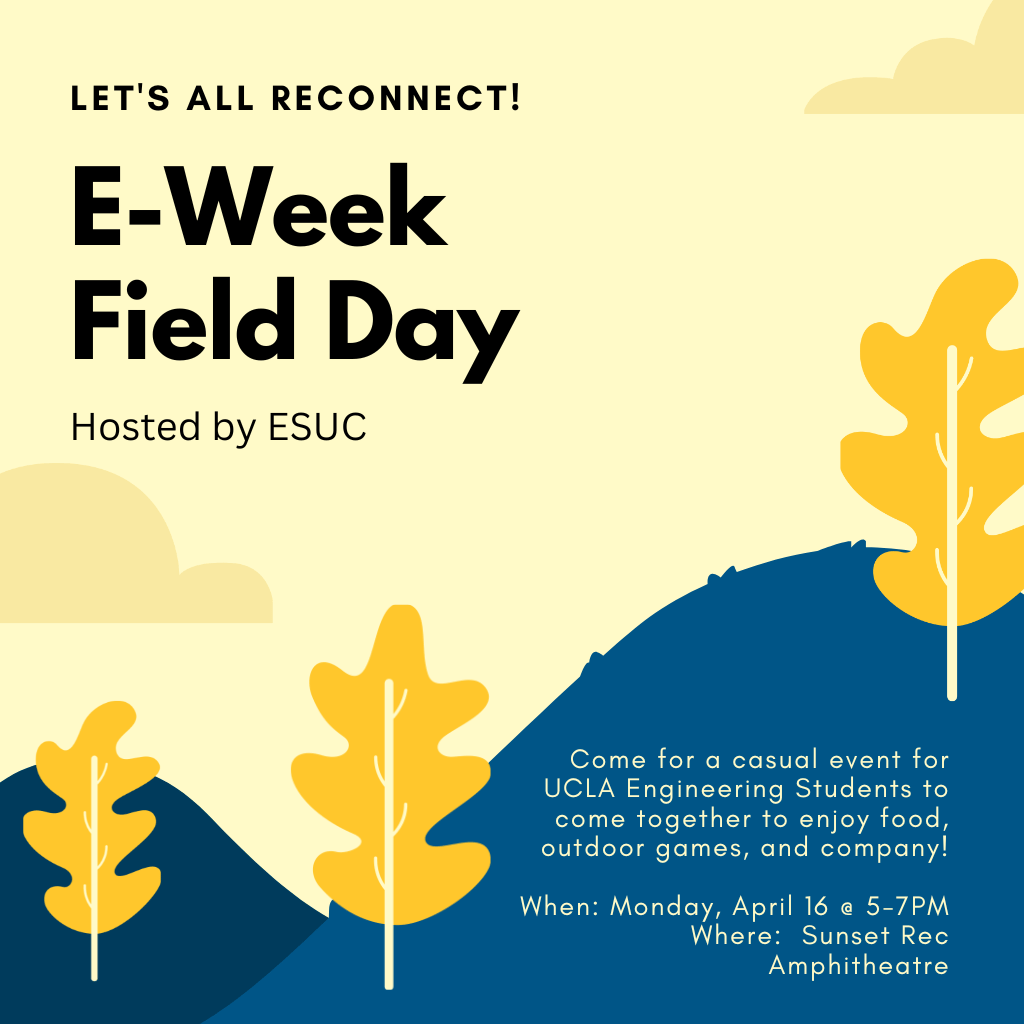
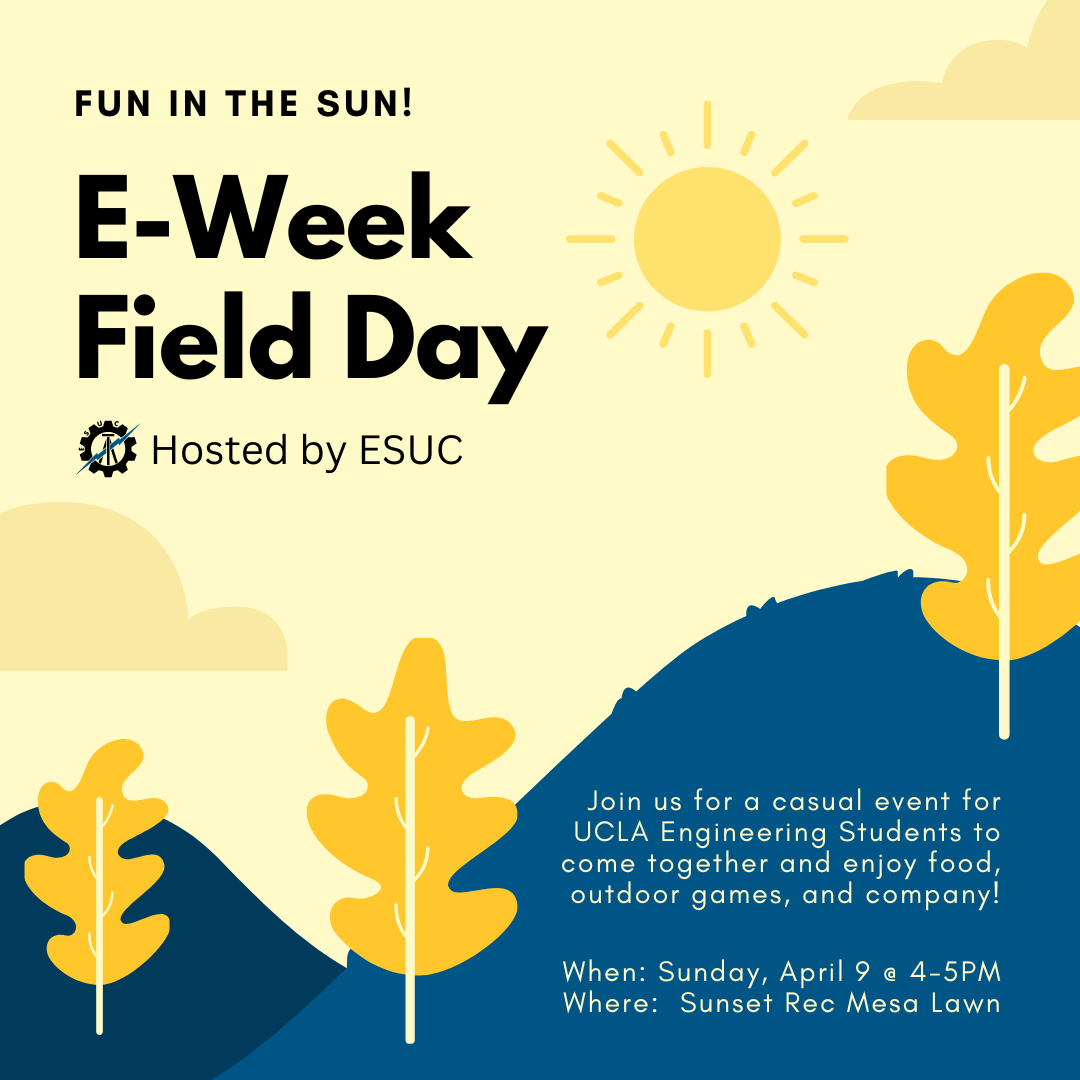
Update about pics, event info, rsvp link, and art exhibits

diff --git a/index.html b/index.html
@@ -79,7 +79,7 @@
               <li><a href="#">Drop Down 4</a></li>
             </ul>
           </li> -->
-          <li><a class="getstarted scrollto" href="https://tinyurl.com/e-week-2023">RSVP</a></li>
+          <li><a class="getstarted scrollto" href="https://tinyurl.com/e-week-2023" target="_blank" rel="noopener">RSVP</a></li>
         </ul>
         <i class="bi bi-list mobile-nav-toggle"></i>
       </nav><!-- .navbar -->
@@ -107,7 +107,7 @@
         <div class="row">
           <div class="col-lg-4 col-md-6 d-flex align-items-stretch" data-aos="fade-up" data-aos-delay="100">
             <div class="card">
-              <img src="assets/img/about-boxes-1.jpg" class="card-img-top" alt="...">
+              <img src="assets/img/about/about-1.jpg" class="card-img-top" alt="...">
               <div class="card-icon">
                 <i class="ri-book-open-line"></i>
               </div>
@@ -119,7 +119,7 @@
           </div>
           <div class="col-lg-4 col-md-6 d-flex align-items-stretch" data-aos="fade-up" data-aos-delay="200">
             <div class="card">
-              <img src="assets/img/about-boxes-2.jpg" class="card-img-top" alt="...">
+              <img src="assets/img/about/about-2.jpg" class="card-img-top" alt="...">
               <div class="card-icon">
                 <i class="ri-calendar-check-line"></i>
               </div>
@@ -131,7 +131,7 @@
           </div>
           <div class="col-lg-4 col-md-6 d-flex align-items-stretch" data-aos="fade-up" data-aos-delay="300">
             <div class="card">
-              <img src="assets/img/about-boxes-3.jpg" class="card-img-top" alt="...">
+              <img src="assets/img/about/about-3.jpg" class="card-img-top" alt="...">
               <div class="card-icon">
                 <i class="ri-focus-2-line"></i>
               </div>
@@ -200,32 +200,32 @@
         <ul class="nav nav-tabs row d-flex">
           <li class="nav-item col-2">
             <a class="nav-link active show" data-bs-toggle="tab" href="#tab-1">
+              <i class="ri-sun-line"></i>
+              <h4 class="d-none d-lg-block">Field Day</h4>
+            </a>
+          </li>
+          <li class="nav-item col-2">
+            <a class="nav-link" data-bs-toggle="tab" href="#tab-2">
               <i class="ri-group-2-line"></i>
               <h4 class="d-none d-lg-block">Kids Day</h4>
             </a>
           </li>
           <li class="nav-item col-2">
-            <a class="nav-link" data-bs-toggle="tab" href="#tab-2">
+            <a class="nav-link" data-bs-toggle="tab" href="#tab-3">
               <i class="ri-global-line"></i>
-              <h4 class="d-none d-lg-block">Networking Night</h4>
+              <h4 class="d-none d-lg-block">Industry Night</h4>
             </a>
           </li>
           <li class="nav-item col-2">
-            <a class="nav-link" data-bs-toggle="tab" href="#tab-3">
+            <a class="nav-link" data-bs-toggle="tab" href="#tab-4">
               <i class="ri-rocket-line"></i>
               <h4 class="d-none d-lg-block">Rocket Egg Drop</h4>
             </a>
           </li>
           <li class="nav-item col-2">
-            <a class="nav-link" data-bs-toggle="tab" href="#tab-4">
+            <a class="nav-link" data-bs-toggle="tab" href="#tab-5">
               <i class="ri-settings-5-line"></i>
               <h4 class="d-none d-lg-block">Engineers Ball</h4>
-            </a>
-          </li>
-          <li class="nav-item col-2">
-            <a class="nav-link" data-bs-toggle="tab" href="#tab-5">
-              <i class="ri-sun-line"></i>
-              <h4 class="d-none d-lg-block">Field Day</h4>
             </a>
           </li>
           <li class="nav-item col-2">
@@ -240,15 +240,38 @@
           <div class="tab-pane active show" id="tab-1">
             <div class="row">
               <div class="col-lg-6 order-2 order-lg-1 mt-3 mt-lg-0">
-                <h3>Kids Day</h3>
+                <h3>Field Day</h3>
                 <p class="fst-italic">
-                  Kids Day is an event for the UCLA Engineering Students to give back to the community. 
-                  During Kids Day, hundreds of elementary school students are invited to UCLA for a day of hands-on learning outside of a classroom setting. 
+                  Come for a casual event with UCLA Engineering Students to come together to enjoy food, outdoor games, and company!
                 </p>
                 <ul>
-                  <li><i class="ri-check-double-line"></i> Date: April 11, 2023</li>
-                  <li><i class="ri-check-double-line"></i> Time: 8 AM to 1 PM</li>
-                  <li><i class="ri-check-double-line"></i> Location: Ackerman Grand Ballroom</li>
+                  <li><i class="ri-check-double-line"></i> Date: Sunday, April 9, 2023</li>
+                  <li><i class="ri-check-double-line"></i> Time: 4 PM to 5 PM</li>
+                  <li><i class="ri-check-double-line"></i> Location: Sunset Recreation Mesa Lawn</li>
+                </ul>
+                <p>
+                  The goal is for students to be able to take a break from studying, reconnect with nature, and become familiarized with their community of engineers. 
+                  The community outcome will be better relationships within the engineering community that can help in improving student experiences in the classroom, in clubs, and in exploring engineering endeavors.
+                </p>
+              </div>
+              <div class="col-lg-6 order-1 order-lg-2 text-center">
+                <img src="assets/img/events/fieldday.png" alt="Field Day" class="img-fluid">
+              </div>
+            </div>
+          </div>
+          <div class="tab-pane" id="tab-2">
+            <div class="row">
+              <div class="col-lg-6 order-2 order-lg-1 mt-3 mt-lg-0">
+                <h3>Kids Day</h3>
+                <p class="fst-italic">
+                  Are you interested in helping young kids develop an interest in engineering? 
+                  Volunteer at our outreach event where elementary school students in the area are invited to participate in hands-on activities led by UCLA engineering orgs!
+                  Sign up here: <a href="https://tinyurl.com/kids-day-2023" target="_blank" rel="noopener">https://tinyurl.com/kids-day-2023</a>
+                </p>
+                <ul>
+                  <li><i class="ri-check-double-line"></i> Date: Tuesday, April 11, 2023</li>
+                  <li><i class="ri-check-double-line"></i> Time: 10 AM to 12 PM</li>
+                  <li><i class="ri-check-double-line"></i> Location: Engineering IV</li>
                 </ul>
                 <p>
                   Engineer's Week is a decades-old tradition at the University of California, Los Angeles (UCLA) hosted by the Engineering Society of UCLA. 
@@ -258,20 +281,20 @@
                 </p>
               </div>
               <div class="col-lg-6 order-1 order-lg-2 text-center">
-                <img src="assets/img/events/kidsday.png" alt="" class="img-fluid">
+                <img src="assets/img/events/kidsday.png" alt="Kids Day" class="img-fluid">
               </div>
             </div>
           </div>
-          <div class="tab-pane" id="tab-2">
+          <div class="tab-pane" id="tab-3">
             <div class="row">
               <div class="col-lg-6 order-2 order-lg-1 mt-3 mt-lg-0">
-                <h3>Networking Night</h3>
+                <h3>Industry Night</h3>
                 <p class="fst-italic">
-                  An evening during E-Week, where representatives from  different companies come to talk to UCLA students about the future, industry, and advice.
+                  Meet with alumni and industry professionals in a casual setting to get a jump start on your career!
                 </p>
                 <ul>
-                  <li><i class="ri-check-double-line"></i> Date: April 11, 2023</li>
-                  <li><i class="ri-check-double-line"></i> Time: Evening</li>
+                  <li><i class="ri-check-double-line"></i> Date: Wednesday, April 12, 2023</li>
+                  <li><i class="ri-check-double-line"></i> Time: 8 PM - 9 PM</li>
                   <li><i class="ri-check-double-line"></i> Location: Zoom</li>
                 </ul>
                 <p>
@@ -281,21 +304,21 @@
                 </p>
               </div>
               <div class="col-lg-6 order-1 order-lg-2 text-center">
-                <img src="assets/img/events/networkingnight.png" alt="" class="img-fluid">
+                <img src="assets/img/events/industrynight.png" alt="Industry Night" class="img-fluid">
               </div>
             </div>
           </div>
-          <div class="tab-pane" id="tab-3">
+          <div class="tab-pane" id="tab-4">
             <div class="row">
               <div class="col-lg-6 order-2 order-lg-1 mt-3 mt-lg-0">
                 <h3>Rocket Egg Drop</h3>
                 <p class="fst-italic">
-                  The goals of this engineering challenge are to allow students to demonstrate their newfound knowledge from classes and apply what they have learned in a fun, team-oriented environment.
+                  Show off your creativity and engineering ability in this egg drop competition with a twist where engineers will be given a plethora of random materials to build the best device to keep an egg safe from a launch off the roof!
                 </p>
                 <ul>
-                  <li><i class="ri-check-double-line"></i> Date: April 13, 2023</li>
+                  <li><i class="ri-check-double-line"></i> Date: Thursday, April 13, 2023</li>
                   <li><i class="ri-check-double-line"></i> Time: 4 PM to 6 PM</li>
-                  <li><i class="ri-check-double-line"></i> Location: Boelter Penthouse (Floor 9)</li>
+                  <li><i class="ri-check-double-line"></i> Location: Boelter Penthouse (Floor 9 Rooftop)</li>
                 </ul>
                 <p>
                   In the spirit of E-Week, students will get the chance to show off their engineering skills through a classic egg drop with a twist. 
@@ -304,22 +327,23 @@
                 </p>
               </div>
               <div class="col-lg-6 order-1 order-lg-2 text-center">
-                <img src="assets/img/events/rocketeggdrop.png" alt="" class="img-fluid">
+                <img src="assets/img/events/rocketeggdrop.png" alt="Rocket Egg Drop" class="img-fluid">
               </div>
             </div>
           </div>
-          <div class="tab-pane" id="tab-4">
+          <div class="tab-pane" id="tab-5">
             <div class="row">
               <div class="col-lg-6 order-2 order-lg-1 mt-3 mt-lg-0">
                 <h3>Engineers Ball</h3>
                 <p class="fst-italic">
                   Engineers Ball is a semi-formal social event for UCLA Engineering Students to have fun and step away from the stress of classes. 
                   With provided food and entertainment, students will be able to enjoy catching up with old friends and making new ones.
+                  Sign up here: <a href="https://tinyurl.com/e-ball-2023" target="_blank" rel="noopener">https://tinyurl.com/e-ball-2023</a>
                 </p>
                 <ul>
-                  <li><i class="ri-check-double-line"></i> Date: April 14, 2023</li>
-                  <li><i class="ri-check-double-line"></i> Time: 6 PM to 9 PM</li>
-                  <li><i class="ri-check-double-line"></i> Location: TBD</li>
+                  <li><i class="ri-check-double-line"></i> Date: Friday, April 14, 2023</li>
+                  <li><i class="ri-check-double-line"></i> Time: 6 PM to 8 PM</li>
+                  <li><i class="ri-check-double-line"></i> Location: Bruin Reception Room</li>
                 </ul>
                 <p>
                   Engineers Ball is an event hosted by ESUC during our annual Engineers Week (E-Week) during Week 2 of Spring Quarter. 
@@ -328,29 +352,7 @@
                 </p>
               </div>
               <div class="col-lg-6 order-1 order-lg-2 text-center">
-                <img src="assets/img/events/engineersball.png" alt="" class="img-fluid">
-              </div>
-            </div>
-          </div>
-          <div class="tab-pane" id="tab-5">
-            <div class="row">
-              <div class="col-lg-6 order-2 order-lg-1 mt-3 mt-lg-0">
-                <h3>Field Day</h3>
-                <p class="fst-italic">
-                  This event is an opportunity for engineering students to come together to enjoy food, games, and company.
-                </p>
-                <ul>
-                  <li><i class="ri-check-double-line"></i> Date: April 16, 2023</li>
-                  <li><i class="ri-check-double-line"></i> Time: 5 PM to 7 PM</li>
-                  <li><i class="ri-check-double-line"></i> Location: Sunset Rec Amphitheatre</li>
-                </ul>
-                <p>
-                  The goal is for students to be able to take a break from studying, reconnect with nature, and become familiarized with their community of engineers. 
-                  The community outcome will be better relationships within the engineering community that can help in improving student experiences in the classroom, in clubs, and in exploring engineering endeavors.
-                </p>
-              </div>
-              <div class="col-lg-6 order-1 order-lg-2 text-center">
-                <img src="assets/img/events/fieldday.png" alt="" class="img-fluid">
+                <img src="assets/img/events/engineersball.png" alt="Engineers Ball" class="img-fluid">
               </div>
             </div>
           </div>
@@ -359,16 +361,17 @@
               <div class="col-lg-6 order-2 order-lg-1 mt-3 mt-lg-0">
                 <h3>Art Display</h3>
                 <p class="fst-italic">
-                  Who said engineers weren't creative? Show off your art skills and have your work exhibited in the Kerckhoff Art Gallery.
+                  Who said engineers weren't creative? Show off your art skills and have your work exhibited on Instagram and the E-Week website! 
+                  Sign up here: <a href="https://tinyurl.com/art-display-2023-submission" target="_blank" rel="noopener">https://tinyurl.com/art-display-2023-submission</a>
                 </p>
                 <ul>
                   <li><i class="ri-check-double-line"></i> Date: April 10-14, 2023 (All Week)</li>
-                  <li><i class="ri-check-double-line"></i> Time: 7 AM to 7 PM</li>
-                  <li><i class="ri-check-double-line"></i> Location: Kerckhoff Art Gallery + Others</li>
+                  <li><i class="ri-check-double-line"></i> Time: Whenever Your Heart Desires!</li>
+                  <li><i class="ri-check-double-line"></i> Location: Instagram and E-Week Website</li>
                 </ul>
                 <p>
                   Art Display is a chance for engineers to show off their artistic abilities and talents. 
-                  Art created by engineers will be displayed either in person throughout the entirety of E-Week in either the ESUC Lounge, SEAS Cafe, or Kerckhoff Art Gallery AND/OR on a website and our social media. 
+                  Art created by engineers will be displayed either our website and social media. 
                   A public voting form will be posted for the people to vote for their favorite pieces, and the top 3 works will receive a prize.
                 </p>
               </div>
@@ -395,6 +398,7 @@
           <div class="col-lg-12 d-flex justify-content-center">
             <ul id="portfolio-flters">
               <li data-filter="*" class="filter-active">All</li>
+              <li data-filter=".filter-past">Past</li>
               <li data-filter=".filter-submissions">Submissions</li>
               <li data-filter=".filter-winners">Winners</li>
             </ul>
@@ -403,34 +407,89 @@
 
         <div class="row portfolio-container" data-aos="fade-up" data-aos-delay="200">
 
-          <div class="col-lg-4 col-md-6 portfolio-item filter-submissions">
-            <a href="assets/img/portfolio/portfolio-2.jpg" data-gallery="portfolioGallery" class="portfolio-lightbox preview-link" title="Honeycomb">
-              <img src="assets/img/portfolio/portfolio-2.jpg" class="img-fluid" alt="">
+          <div class="col-lg-4 col-md-6 portfolio-item filter-past">
+            <a href="assets/img/art/past-1.jpeg" data-gallery="portfolioGallery" class="portfolio-lightbox preview-link" title="A recreation of a man I saw making chai in a bazaar in Karachi, Pakistan, made using acrylic on Bristol. ~ Sumaiya Kasier">
+              <img src="assets/img/art/past-1.jpeg" class="img-fluid" alt="">
               <div class="portfolio-info">
-                <h4>Honeycomb</h4>
-                <p>Submission</p>
+                <h4>Chaiwalla</h4>
+                <p>Past</p>
                 <!-- <a href="portfolio-details.html" class="details-link" title="More Details"><i class="bx bx-link"></i></a> -->
               </div>
             </a>
           </div>
 
-          <div class="col-lg-4 col-md-6 portfolio-item filter-winners">
-            <a href="assets/img/portfolio/portfolio-7.jpg" data-gallery="portfolioGallery" class="portfolio-lightbox preview-link" title="Camera">
-              <img src="assets/img/portfolio/portfolio-7.jpg" class="img-fluid" alt="">
+          <div class="col-lg-4 col-md-6 portfolio-item filter-past">
+            <a href="assets/img/art/past-2.png" data-gallery="portfolioGallery" class="portfolio-lightbox preview-link" title="Edited from a picture I hurriedly took running from CS 35Lto Covel (just before it closed), 'Your UID' aims to capture the serendipitous connection moments, sense of wonder, world of beauty that I use to measure my time at UCLA. ~ Rohit Tavare">
+              <img src="assets/img/art/past-2.png" class="img-fluid" alt="">
               <div class="portfolio-info">
-                <h4>Camera</h4>
-                <p>Winner</p>
+                <h4>Your UID</h4>
+                <p>Past</p>
                 <!-- <a href="portfolio-details.html" class="details-link" title="More Details"><i class="bx bx-link"></i></a> -->
               </div>
             </a>
           </div>
 
-          <div class="col-lg-4 col-md-6 portfolio-item filter-submissions">
-            <a href="assets/img/portfolio/portfolio-8.jpg" data-gallery="portfolioGallery" class="portfolio-lightbox preview-link" title="Wheat">
-              <img src="assets/img/portfolio/portfolio-8.jpg" class="img-fluid" alt="">
+          <div class="col-lg-4 col-md-6 portfolio-item filter-past">
+            <a href="assets/img/art/past-3.png" data-gallery="portfolioGallery" class="portfolio-lightbox preview-link" title="Pen and ink on paper of heart with flowers ~ Zofia Orlowski">
+              <img src="assets/img/art/past-3.png" class="img-fluid" alt="">
               <div class="portfolio-info">
-                <h4>Wheat</h4>
-                <p>Submission</p>
+                <h4>Blooming Heart</h4>
+                <p>Past</p>
+                <!-- <a href="portfolio-details.html" class="details-link" title="More Details"><i class="bx bx-link"></i></a> -->
+              </div>
+            </a>
+          </div>
+
+          <div class="col-lg-4 col-md-6 portfolio-item filter-past">
+            <a href="assets/img/art/past-4.png" data-gallery="portfolioGallery" class="portfolio-lightbox preview-link" title="The sun god cries in liquid gold for the pain inside, untold. ~ Ellie Cheng">
+              <img src="assets/img/art/past-4.png" class="img-fluid" alt="">
+              <div class="portfolio-info">
+                <h4>The Sun God</h4>
+                <p>Past</p>
+                <!-- <a href="portfolio-details.html" class="details-link" title="More Details"><i class="bx bx-link"></i></a> -->
+              </div>
+            </a>
+          </div>
+
+          <div class="col-lg-4 col-md-6 portfolio-item filter-past">
+            <a href="assets/img/art/past-5.png" data-gallery="portfolioGallery" class="portfolio-lightbox preview-link" title="When you're doing something you like, something that feels so natural it's an extension of your body, at some point your mind just... clicks. Into the late hours of the night with that Study coffee, it's only you and the paper, only you and the code, only you and the road. ~ Rohit Tavare">
+              <img src="assets/img/art/past-5.png" class="img-fluid" alt="">
+              <div class="portfolio-info">
+                <h4>Terminal Velocity</h4>
+                <p>Past</p>
+                <!-- <a href="portfolio-details.html" class="details-link" title="More Details"><i class="bx bx-link"></i></a> -->
+              </div>
+            </a>
+          </div>
+
+          <div class="col-lg-4 col-md-6 portfolio-item filter-past">
+            <a href="assets/img/art/past-6.jpg" data-gallery="portfolioGallery" class="portfolio-lightbox preview-link" title="Pen and ink on paper of woman with flowers ~ Zofia Orlowski">
+              <img src="assets/img/art/past-6.jpg" class="img-fluid" alt="">
+              <div class="portfolio-info">
+                <h4>Blooming Soul</h4>
+                <p>Past</p>
+                <!-- <a href="portfolio-details.html" class="details-link" title="More Details"><i class="bx bx-link"></i></a> -->
+              </div>
+            </a>
+          </div>
+
+          <div class="col-lg-4 col-md-6 portfolio-item filter-past">
+            <a href="assets/img/art/past-7.png" data-gallery="portfolioGallery" class="portfolio-lightbox preview-link" title="I wonder if sometimes we tackle mountainous challenges, sacrifice our sleep, our wellbeing, just to tell people we accomplished something, instead of for the sake of scaling the challenge? Why do we build ourselves a world where we want to or are forced to pick the former instead of the latter? Does it have to be as black and white as this piece makes it out to be? ~ Rohit Tavare">
+              <img src="assets/img/art/past-7.png" class="img-fluid" alt="">
+              <div class="portfolio-info">
+                <h4>Climb</h4>
+                <p>Past</p>
+                <!-- <a href="portfolio-details.html" class="details-link" title="More Details"><i class="bx bx-link"></i></a> -->
+              </div>
+            </a>
+          </div>
+
+          <div class="col-lg-4 col-md-6 portfolio-item filter-past">
+            <a href="assets/img/art/past-8.jpg" data-gallery="portfolioGallery" class="portfolio-lightbox preview-link" title="Pen and ink on paper of head with flowers ~ Zofia Orlowski">
+              <img src="assets/img/art/past-8.jpg" class="img-fluid" alt="">
+              <div class="portfolio-info">
+                <h4>Blooming Mind</h4>
+                <p>Past</p>
                 <!-- <a href="portfolio-details.html" class="details-link" title="More Details"><i class="bx bx-link"></i></a> -->
               </div>
             </a>

diff --git a/inner-page.html b/inner-page.html
@@ -80,7 +80,7 @@
               <li><a href="#">Drop Down 4</a></li>
             </ul>
           </li> -->
-          <li><a class="getstarted scrollto" href="https://tinyurl.com/e-week-2023">RSVP</a></li>
+          <li><a class="getstarted scrollto" href="https://tinyurl.com/e-week-2023" target="_blank" rel="noopener">RSVP</a></li>
         </ul>
         <i class="bi bi-list mobile-nav-toggle"></i>
       </nav><!-- .navbar -->

diff --git a/portfolio-details.html b/portfolio-details.html
@@ -80,7 +80,7 @@
               <li><a href="#">Drop Down 4</a></li>
             </ul>
           </li> -->
-          <li><a class="getstarted scrollto" href="https://tinyurl.com/e-week-2023">RSVP</a></li>
+          <li><a class="getstarted scrollto" href="https://tinyurl.com/e-week-2023" target="_blank" rel="noopener">RSVP</a></li>
         </ul>
         <i class="bi bi-list mobile-nav-toggle"></i>
       </nav><!-- .navbar -->
